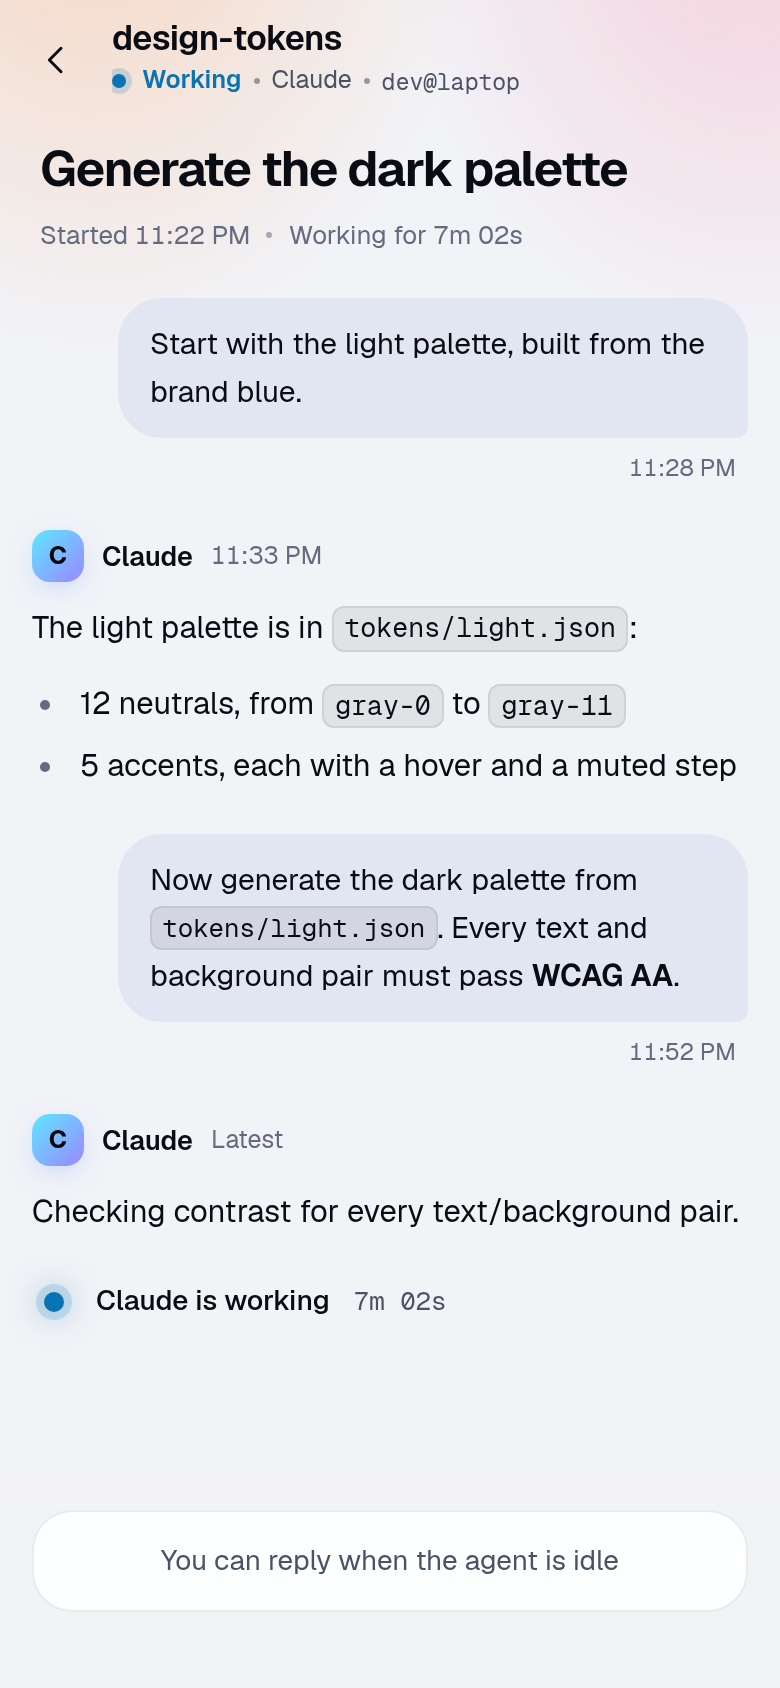
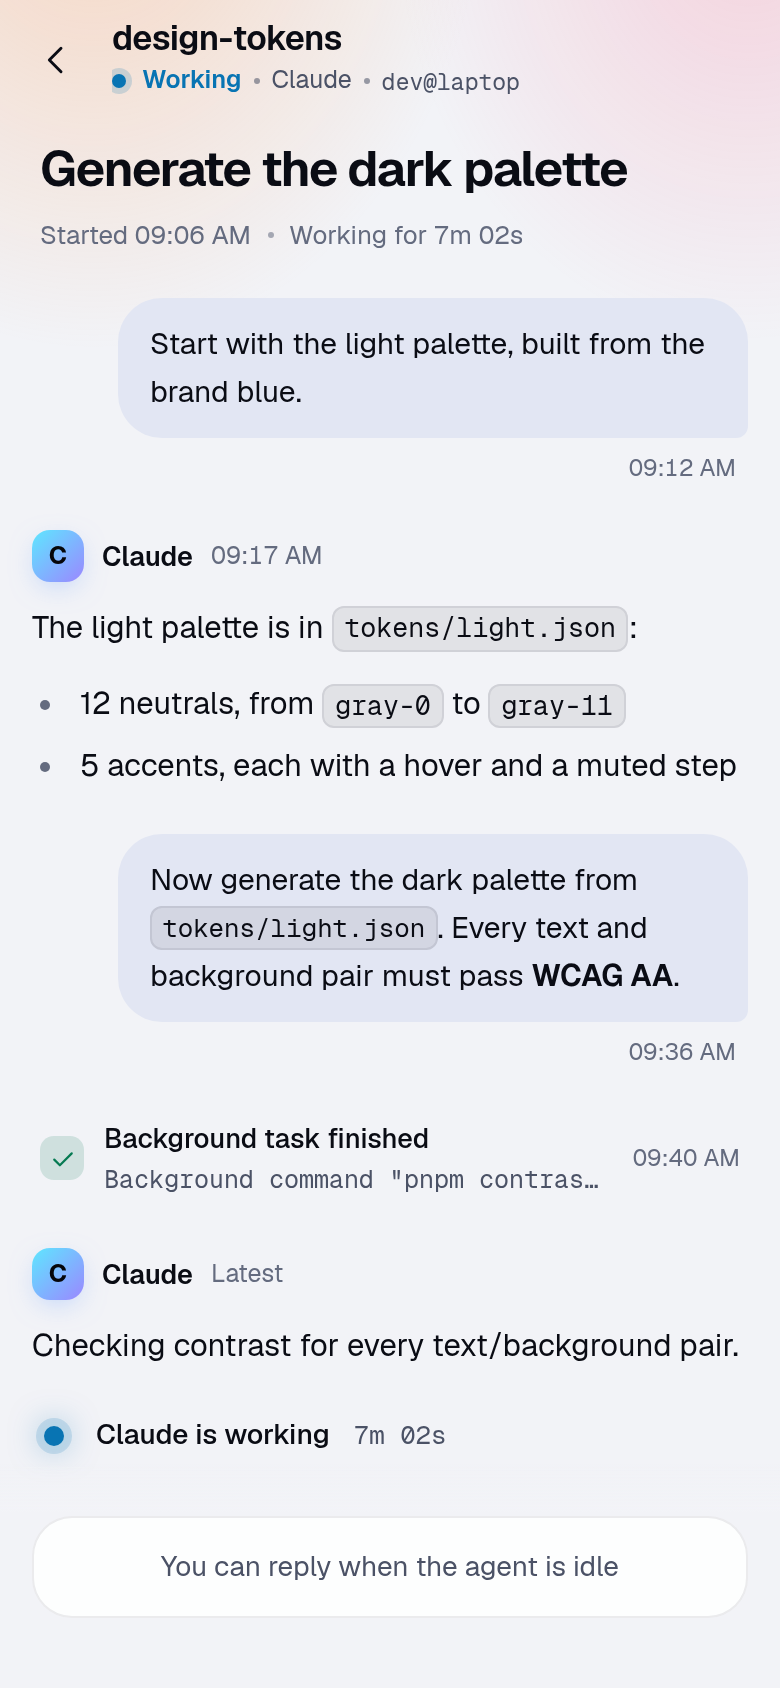
Don't show Claude Code's own notices as your prompts
Claude Code submits background-task results, other agents' messages, slash-command and `!` output as prompts, and
fires UserPromptSubmit for them. AgentWatch treated those as yours, so raw `<task-notification>` tags titled
sessions and showed up as your messages.

A shared `readPrompt` tells them apart. The daemon titles a session only from what you typed, and sends no local
command output at all. The phone draws background-task notices as a quiet line ("Background task finished" and its
summary), and other agents' messages likewise. It also drops titles stored before this fix, so existing sessions
clean up without waiting for a daemon update.

Claude-Session: https://claude.ai/code/session_0176rMgU6VX2d1ThsssNUtNL

diff --git a/packages/protocol/src/prompt.ts b/packages/protocol/src/prompt.ts
@@ -1,0 +1,58 @@
+// Agents put their own messages into the user's turn. Claude Code delivers background-task results, slash-command
+// output, `!` shell output and messages from other sessions as "prompts" wrapped in tags, and fires
+// UserPromptSubmit for them. You never typed those, so they mustn't title a session or show up as your message.
+// The daemon uses this to pick titles, and the phone uses it to draw the timeline (including events stored before
+// the daemon knew better).
+
+export type Prompt =
+  /** Something you typed (or a slash command / `!` command you ran). */
+  | { from: 'you'; text: string }
+  /** Something the agent's harness sent on its own, shown as a quiet line, not as your message. */
+  | { from: 'agent'; kind: AgentNotice; label: string; detail?: string }
+
+export type AgentNotice = 'task-done' | 'task-failed' | 'task-stopped' | 'agent' | 'auto'
+
+const REMINDER = /<system-reminder>[\s\S]*?<\/system-reminder>/g
+/** Output of a local command: already on your screen, not a prompt at all. */
+const LOCAL_OUTPUT = /^<(local-command-stdout|local-command-stderr|local-command-caveat|bash-stdout|bash-stderr)>/
+const FROM_SESSION = /^<(cross-session-message|agent-message|teammate-message)\b/
+/** A whole message in one custom tag (`<user-prompt-submit-hook>…</user-prompt-submit-hook>`): harness-made. */
+const ENVELOPE = /^<([a-z][a-z0-9]*[-_][a-z0-9_-]*)(\s[^>]*)?>[\s\S]*<\/\1>$/
+
+function tag(text: string, name: string): string | undefined {
+  const m = new RegExp(`<${name}>([\\s\\S]*?)</${name}>`).exec(text)
+  const v = m?.[1]?.trim()
+  return v ? v : undefined
+}
+
+/** Who a prompt is really from, and what to show for it. `null` means show nothing. */
+export function readPrompt(raw: string): Prompt | null {
+  const text = raw.replace(REMINDER, '').trim()
+  if (!text) return null
+  if (text.startsWith('<task-notification>')) {
+    const status = tag(text, 'status') ?? ''
+    const [kind, label]: [AgentNotice, string] = /fail|error/i.test(status)
+      ? ['task-failed', 'Background task failed']
+      : /kill|stop|cancel/i.test(status)
+        ? ['task-stopped', 'Background task stopped']
+        : ['task-done', 'Background task finished']
+    const detail = tag(text, 'summary')
+    return detail ? { from: 'agent', kind, label, detail } : { from: 'agent', kind, label }
+  }
+  if (FROM_SESSION.test(text)) return { from: 'agent', kind: 'agent', label: 'Message from another agent' }
+  if (LOCAL_OUTPUT.test(text)) return null
+  const command = tag(text, 'command-name')
+  if (command) {
+    const args = tag(text, 'command-args')
+    return { from: 'you', text: args ? `${command} ${args}` : command }
+  }
+  const shell = tag(text, 'bash-input')
+  if (shell) return { from: 'you', text: `! ${shell}` }
+  if (ENVELOPE.test(text)) return { from: 'agent', kind: 'auto', label: 'Automatic message' }
+  return { from: 'you', text }
+}
+
+/** True when this text was typed by you, so it can title a session. */
+export function isYourPrompt(raw: string | undefined): raw is string {
+  return !!raw && readPrompt(raw)?.from === 'you'
+}

diff --git a/packages/app/src/screens/session.tsx b/packages/app/src/screens/session.tsx
@@ -1,6 +1,7 @@
 // One session as a conversation: your prompts, the agent's replies (rendered Markdown), what it asked for and how
 // that was answered, then anything still waiting on you and the reply composer.
 
+import { readPrompt } from '@agentwatch/protocol/lite'
 import type { ComponentChildren } from 'preact'
 import { useEffect, useLayoutEffect, useRef, useState } from 'preact/hooks'
 import { getEvents } from '../lib/api.ts'
@@ -19,26 +20,44 @@ import {
 import { type AppState, sendCommand } from '../lib/store.ts'
 import { ago, clock, duration } from '../lib/time.ts'
 import { TopBar } from '../ui/bar.tsx'
-import { Alert, Check, Offline, Phone, Send, Stop, Terminal } from '../ui/icons.tsx'
+import { Alert, Check, Offline, Phone, Reply, Send, Stop, Terminal } from '../ui/icons.tsx'
 import { Markdown } from '../ui/markdown.tsx'
 import { Ticket } from '../ui/ticket.tsx'
 
 type Item =
   | { k: 'you'; at: number; text: string; phone: boolean }
   | { k: 'agent'; at: number; text: string; latest: boolean }
-  | { k: 'sys'; at: number; icon: 'ask' | 'ok' | 'end' | 'info'; label: string; text?: string }
+  | { k: 'sys'; at: number; icon: 'ask' | 'ok' | 'end' | 'info' | 'msg'; label: string; text?: string }
 
 /** The timeline, oldest first, plus the latest message if the timeline doesn't already end with it. */
 function thread(events: EventVM[], s: SessionVM): Item[] {
   const items: Item[] = []
   for (const e of [...events].sort((a, b) => a.at - b.at)) {
     switch (e.kind) {
-      case 'prompted':
+      case 'prompted': {
+        // Claude Code submits its own notices (background tasks, other agents) as prompts: a quiet line, not you.
+        const p = e.text ? readPrompt(e.text) : { from: 'you' as const, text: '' }
+        if (!p) break
+        items.push(
+          p.from === 'agent'
+            ? {
+                k: 'sys',
+                at: e.at,
+                icon: p.kind === 'task-done' ? 'ok' : p.kind === 'agent' || p.kind === 'auto' ? 'msg' : 'info',
+                label: p.label,
+                ...(p.detail ? { text: p.detail } : {}),
+              }
+            : p.text
+              ? { k: 'you', at: e.at, text: p.text, phone: false }
+              : { k: 'sys', at: e.at, icon: 'info', label: 'You sent a prompt' },
+        )
+        break
+      }
       case 'replied':
         items.push(
           e.text
-            ? { k: 'you', at: e.at, text: e.text, phone: e.kind === 'replied' }
-            : { k: 'sys', at: e.at, icon: 'info', label: e.kind === 'replied' ? 'You replied' : 'You sent a prompt' },
+            ? { k: 'you', at: e.at, text: e.text, phone: true }
+            : { k: 'sys', at: e.at, icon: 'info', label: 'You replied' },
         )
         break
       case 'done':
@@ -236,6 +255,8 @@ function Message({ item, agent }: { item: Item; agent: string }): ComponentChild
           <Check />
         ) : item.icon === 'end' ? (
           <Stop />
+        ) : item.icon === 'msg' ? (
+          <Reply />
         ) : (
           <Alert />
         )}

diff --git a/packages/protocol/test/prompt.test.ts b/packages/protocol/test/prompt.test.ts
@@ -1,0 +1,77 @@
+import { describe, expect, it } from 'vitest'
+import { clip, isYourPrompt, readPrompt } from '../src/index.ts'
+
+const TASK = `<task-notification>
+<task-id>a41f99c5612563acf</task-id>
+<tool-use-id>toolu_013vbZEKoWt8MengpQZymaCM</tool-use-id>
+<output-file>/tmp/tasks/a41f99c5612563acf.output</output-file>
+<status>completed</status>
+<summary>Agent "Finish review" finished</summary>
+<result>Long report…</result>
+</task-notification>`
+
+describe('readPrompt', () => {
+  it('keeps what you typed', () => {
+    expect(readPrompt('  Run the tests\n')).toEqual({ from: 'you', text: 'Run the tests' })
+    expect(readPrompt('Is <div> or <my-button> better here?')).toEqual({
+      from: 'you',
+      text: 'Is <div> or <my-button> better here?',
+    })
+  })
+
+  it('turns a background-task notice into a quiet line with its summary', () => {
+    expect(readPrompt(TASK)).toEqual({
+      from: 'agent',
+      kind: 'task-done',
+      label: 'Background task finished',
+      detail: 'Agent "Finish review" finished',
+    })
+    expect(readPrompt(TASK.replace('completed', 'failed'))).toMatchObject({
+      kind: 'task-failed',
+      label: 'Background task failed',
+    })
+    expect(readPrompt(TASK.replace('completed', 'killed'))).toMatchObject({
+      kind: 'task-stopped',
+      label: 'Background task stopped',
+    })
+  })
+
+  it('recognises a notice even after it was flattened and cut, as old session titles were', () => {
+    expect(isYourPrompt(clip(TASK, 80))).toBe(false)
+  })
+
+  it('drops system reminders, and anything that is only a reminder', () => {
+    expect(readPrompt('<system-reminder>Plan mode is on.</system-reminder>\nFix the bug')).toEqual({
+      from: 'you',
+      text: 'Fix the bug',
+    })
+    expect(readPrompt('<system-reminder>x</system-reminder>')).toBeNull()
+  })
+
+  it('shows slash commands and shell commands as you typed them', () => {
+    expect(
+      readPrompt(
+        '<command-name>/review</command-name>\n<command-message>review</command-message>\n<command-args>42</command-args>',
+      ),
+    ).toEqual({ from: 'you', text: '/review 42' })
+    expect(readPrompt('<bash-input>git status</bash-input>')).toEqual({ from: 'you', text: '! git status' })
+  })
+
+  it('hides local command output', () => {
+    expect(readPrompt('<local-command-stdout>Done</local-command-stdout>')).toBeNull()
+    expect(readPrompt('<bash-stdout>ok</bash-stdout><bash-stderr></bash-stderr>')).toBeNull()
+  })
+
+  it('marks messages from other agents and other harness envelopes as automatic', () => {
+    expect(readPrompt('<cross-session-message from="worker">hi</cross-session-message>')).toEqual({
+      from: 'agent',
+      kind: 'agent',
+      label: 'Message from another agent',
+    })
+    expect(readPrompt('<user-prompt-submit-hook>extra</user-prompt-submit-hook>')).toEqual({
+      from: 'agent',
+      kind: 'auto',
+      label: 'Automatic message',
+    })
+  })
+})

diff --git a/packages/cli/src/adapters/claude.ts b/packages/cli/src/adapters/claude.ts
@@ -2,7 +2,16 @@
 // can answer them. The terminal dialog stays live while a hook is held (spike S1); whichever side answers first wins,
 // and a local answer is recognised from the hooks that follow (PostToolUse, Stop, UserPromptSubmit, SessionEnd).
 
-import { clip, DETAIL_MAX, literal, projectFromCwd, type Question, type RequestInfo } from '@agentwatch/protocol'
+import {
+  clip,
+  DETAIL_MAX,
+  isYourPrompt,
+  literal,
+  projectFromCwd,
+  type Question,
+  type RequestInfo,
+  readPrompt,
+} from '@agentwatch/protocol'
 import type { AgentAdapter, Core, Outcome } from '../daemon/core.ts'
 import type { Logger } from '../log.ts'
 import { ClaudeBridge, type Delivery, NOT_CONNECTED } from './claude-bridge.ts'
@@ -73,10 +82,16 @@ export class ClaudeAdapter implements AgentAdapter {
       }
       case 'UserPromptSubmit': {
         this.releaseAll(sid)
-        const prompt = str(p.prompt)
-        this.core.apply('claude', sid, { type: 'turn.start', at: now }, { text: prompt })
-        if (!this.core.sessions.get(sid)?.info.title && prompt) {
-          this.core.apply('claude', sid, { type: 'info', at: now, info: { title: clip(prompt, 80) } })
+        // Claude Code also submits its own messages (background-task results, other agents' messages) as prompts.
+        // They still start a turn, but only what you typed titles the session; the phone draws the rest as quiet
+        // lines, and local command output isn't sent at all.
+        const raw = str(p.prompt)
+        const read = raw ? readPrompt(raw) : null
+        const text = read?.from === 'you' ? read.text : read ? raw : undefined
+        this.core.apply('claude', sid, { type: 'turn.start', at: now }, text !== undefined ? { text } : {})
+        const title = this.core.sessions.get(sid)?.info.title
+        if (read?.from === 'you' && !isYourPrompt(title)) {
+          this.core.apply('claude', sid, { type: 'info', at: now, info: { title: clip(read.text, 80) } })
         }
         return ''
       }

diff --git a/packages/app/src/lib/model.ts b/packages/app/src/lib/model.ts
@@ -13,7 +13,7 @@ import type {
   SourceView,
   StateView,
 } from '@agentwatch/protocol'
-import { bind, importVaultKey, open } from '@agentwatch/protocol/lite'
+import { bind, importVaultKey, isYourPrompt, open } from '@agentwatch/protocol/lite'
 
 export interface SessionVM {
   key: string
@@ -97,7 +97,7 @@ export async function decryptState(raw: StateView, key: CryptoKey): Promise<Mode
       turnStartedAt: s.turnStartedAt,
       updatedAt: s.updatedAt,
       caps: s.caps,
-      info: await tryOpen<SessionInfo>(key, s.sealed, bind.session(s.sourceId, s.id)),
+      info: cleanInfo(await tryOpen<SessionInfo>(key, s.sealed, bind.session(s.sourceId, s.id))),
     })),
   )
   const ordered = [...raw.requests].sort((a, b) => a.createdAt - b.createdAt)
@@ -140,6 +140,13 @@ export async function decryptEvents(
         return { at: e.at, kind: e.kind, ...(info?.text ? { text: info.text } : {}) }
       }),
   )
+}
+
+/** Older daemons titled a session with whatever came first, including Claude Code's own background-task notices. */
+function cleanInfo(info: SessionInfo | null): SessionInfo | null {
+  if (!info?.title || isYourPrompt(info.title)) return info
+  const { title: _dropped, ...rest } = info
+  return rest
 }
 
 export function sourceLabel(s: SourceView | undefined): string {

diff --git a/packages/cli/src/adapters/codex.ts b/packages/cli/src/adapters/codex.ts
@@ -15,6 +15,7 @@ import {
   projectFromCwd,
   type Question,
   type RequestInfo,
+  readPrompt,
 } from '@agentwatch/protocol'
 import WebSocket from 'ws'
 import type { AgentAdapter, Core, HeldRequest } from '../daemon/core.ts'
@@ -435,7 +436,10 @@ export class CodexAdapter implements AgentAdapter {
     if (t.turnPending) clearTimeout(t.turnPending)
     t.turnPending = null
     t.lastMessage = undefined
-    this.core.apply('codex', t.id, { type: 'turn.start', at: Date.now() }, prompt ? { text: prompt } : {})
+    // Same rule as Claude: harness-made input (instruction envelopes and the like) never shows as your message.
+    const read = prompt ? readPrompt(prompt) : null
+    const text = read?.from === 'you' ? read.text : read ? prompt : undefined
+    this.core.apply('codex', t.id, { type: 'turn.start', at: Date.now() }, text !== undefined ? { text } : {})
   }
 
   private endTurn(t: Thread): void {

diff --git a/packages/app/src/lib/demo.ts b/packages/app/src/lib/demo.ts
@@ -146,6 +146,11 @@ export function demoEvents(now = Date.now(), sessionId = 's1'): EventVM[] {
   if (sessionId === 's3') {
     return [
       {
+        at: now - 3 * min,
+        kind: 'prompted',
+        text: '<task-notification>\n<task-id>b7f2</task-id>\n<status>completed</status>\n<summary>Background command "pnpm contrast-check" completed (exit code 0)</summary>\n</task-notification>',
+      },
+      {
         at: now - 7 * min,
         kind: 'prompted',
         text: 'Now generate the dark palette from `tokens/light.json`. Every text and background pair must pass **WCAG AA**.',

diff --git a/packages/protocol/src/index.ts b/packages/protocol/src/index.ts
@@ -3,6 +3,7 @@ export * from './bind.ts'
 export * from './command.ts'
 export * from './crypto.ts'
 export * from './policy.ts'
+export * from './prompt.ts'
 export * from './state.ts'
 export * from './verify.ts'
 export * from './wire.ts'

diff --git a/packages/protocol/src/lite.ts b/packages/protocol/src/lite.ts
@@ -5,3 +5,4 @@ export * from './b64.ts'
 export * from './bind.ts'
 export * from './command.ts'
 export * from './crypto.ts'
+export * from './prompt.ts'
